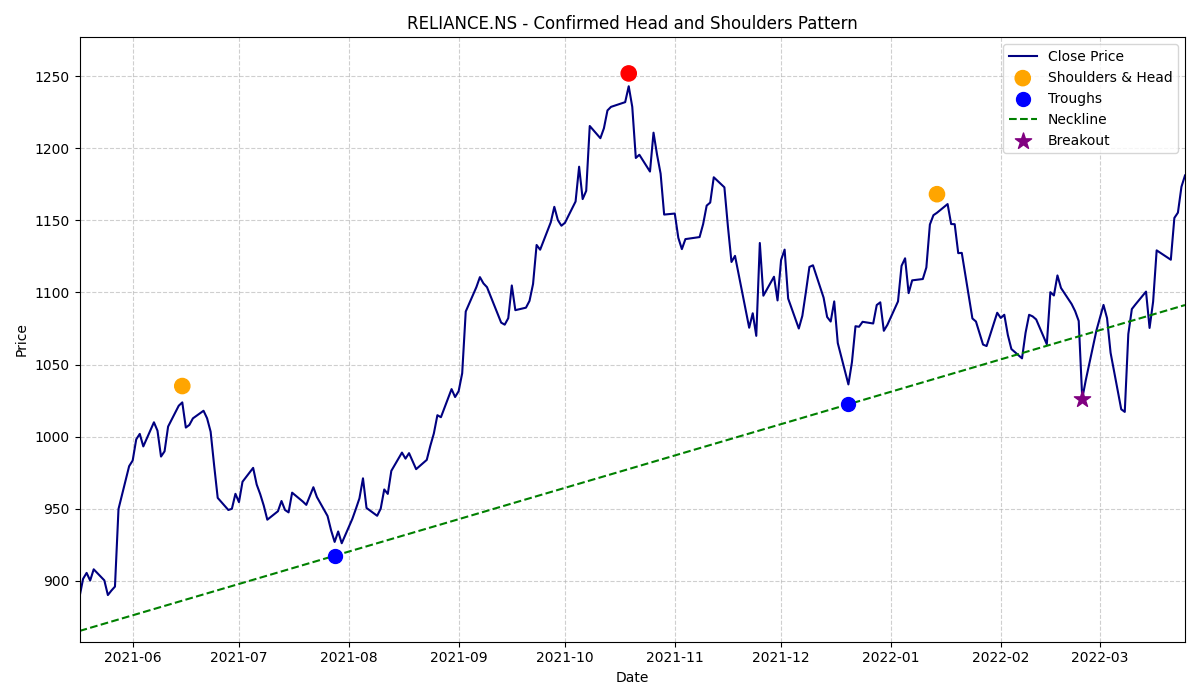
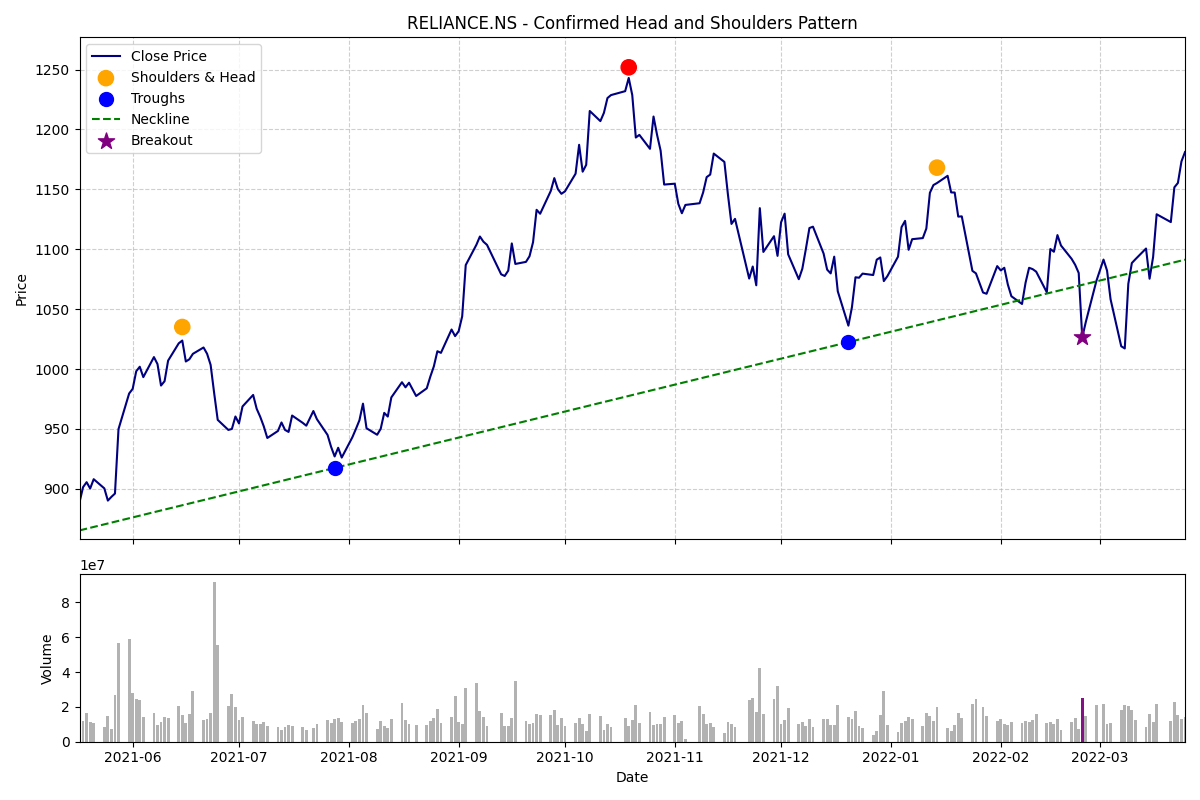
Refactor head and shoulders detection script: enhance plotting with volume visualization, update data loading for multiple symbols, and add .gitignore for generated files

diff --git a/detect_head_and_shoulders.py b/detect_head_and_shoulders.py
@@ -2,8 +2,12 @@ import os
 import pandas as pd
 import numpy as np
 import yfinance as yf
+import matplotlib
+# Use a non-interactive backend to avoid Tkinter issues when running headless
+matplotlib.use('Agg')
 import matplotlib.pyplot as plt
 from datetime import datetime, timedelta
+import time
 
 def load_data(symbol, start_date, end_date):
     data = yf.download(symbol, start=start_date, end=end_date)
@@ -193,47 +197,71 @@ def plot_pattern_zoom(df, pattern, stock_name, output_path):
     df_zoom = df[(df['Date'] >= start_date) & (df['Date'] <= end_date)].copy()
     if df_zoom.empty: return
 
-    plt.figure(figsize=(12, 7))
-    plt.plot(df_zoom['Date'], df_zoom['Close'], label='Close Price', color='navy')
+    # Create two stacked axes: price (top) and volume (bottom) sharing the x-axis
+    fig, (ax_price, ax_vol) = plt.subplots(2, 1, sharex=True, figsize=(12, 8),
+                                          gridspec_kw={'height_ratios': [3, 1]})
+
+    # Price line
+    ax_price.plot(df_zoom['Date'], df_zoom['Close'], label='Close Price', color='navy')
 
     # Mark pattern points
     points_dates = [p1_date, p2_date, p3_date]
     points_prices = [p1_high, p2_high, p3_high]
-    plt.scatter(points_dates, points_prices, color=['orange', 'red', 'orange'], s=120, zorder=5, label='Shoulders & Head')
+    ax_price.scatter(points_dates, points_prices, color=['orange', 'red', 'orange'], s=120, zorder=5, label='Shoulders & Head')
     
     troughs_dates = [t1_date, t2_date]
     troughs_prices = [t1_low, t2_low]
-    plt.scatter(troughs_dates, troughs_prices, color='blue', s=100, zorder=5, label='Troughs')
+    ax_price.scatter(troughs_dates, troughs_prices, color='blue', s=100, zorder=5, label='Troughs')
 
     # Draw Neckline
     slope = pattern['neckline_slope']
     intercept = pattern['neckline_intercept']
     neckline_x = [df_zoom['Date'].iloc[0], df_zoom['Date'].iloc[-1]]
     neckline_y = [slope * d.toordinal() + intercept for d in neckline_x]
-    plt.plot(neckline_x, neckline_y, 'g--', label='Neckline')
+    ax_price.plot(neckline_x, neckline_y, 'g--', label='Neckline')
 
-    # Mark Breakout
+    # Mark Breakout on price
     breakout_date = df['Date'][breakout_idx]
     breakout_price = df['Close'][breakout_idx]
-    plt.scatter(breakout_date, breakout_price, color='purple', s=150, zorder=6, marker='*', label='Breakout')
+    ax_price.scatter(breakout_date, breakout_price, color='purple', s=150, zorder=6, marker='*', label='Breakout')
 
-    plt.xlim(df_zoom['Date'].iloc[0], df_zoom['Date'].iloc[-1])
-    plt.ylim(df_zoom['Low'].min() * 0.98, df_zoom['High'].max() * 1.02)
-    plt.title(f"{stock_name} - Confirmed Head and Shoulders Pattern")
-    plt.xlabel('Date')
-    plt.ylabel('Price')
-    plt.legend()
-    plt.grid(True, linestyle='--', alpha=0.6)
+    # Volume bars on bottom axis
+    if 'Volume' in df_zoom.columns:
+        ax_vol.bar(df_zoom['Date'], df_zoom['Volume'], color='gray', alpha=0.6)
+        # Highlight breakout volume bar
+        try:
+            ax_vol.bar(breakout_date, df.loc[breakout_idx, 'Volume'], color='purple', alpha=0.9)
+        except Exception:
+            pass
+
+    # Formatting
+    ax_price.set_xlim(df_zoom['Date'].iloc[0], df_zoom['Date'].iloc[-1])
+    ax_price.set_ylim(df_zoom['Low'].min() * 0.98, df_zoom['High'].max() * 1.02)
+    ax_price.set_title(f"{stock_name} - Confirmed Head and Shoulders Pattern")
+    ax_price.set_ylabel('Price')
+    ax_vol.set_ylabel('Volume')
+    ax_vol.set_xlabel('Date')
+
+    ax_price.legend(loc='upper left')
+    ax_price.grid(True, linestyle='--', alpha=0.6)
+    ax_vol.grid(False)
     plt.tight_layout()
     plt.savefig(output_path)
-    plt.close()
+    plt.close(fig)
 
 if __name__ == "__main__":
-    symbol = 'RELIANCE.NS'
+    # List of ~25 popular NSE tickers to analyze (add or remove as needed)
+    symbols = [
+        'RELIANCE.NS', 'TCS.NS', 'INFY.NS', 'HDFCBANK.NS', 'ICICIBANK.NS',
+        'LT.NS', 'AXISBANK.NS', 'KOTAKBANK.NS', 'SBIN.NS', 'HINDUNILVR.NS',
+        'ITC.NS', 'MARUTI.NS', 'BHARTIARTL.NS', 'ASIANPAINT.NS', 'BAJFINANCE.NS',
+        'HCLTECH.NS', 'WIPRO.NS', 'ONGC.NS', 'BPCL.NS', 'TATAMOTORS.NS',
+        'TATASTEEL.NS', 'JSWSTEEL.NS', 'SUNPHARMA.NS', 'LTIM.NS', 'NESTLEIND.NS'
+    ]
+
     start_date = '2015-01-01'
-    end_date = '2025-08-20'
-    df = load_data(symbol, start_date, end_date)
-    df = find_swing_points(df, N_bars=20)
+    end_date = datetime.now().strftime('%Y-%m-%d')
+
     # Run detection for multiple time windows and save results separately
     windows = {
         '1y': 365,
@@ -242,26 +270,51 @@ if __name__ == "__main__":
         '5y': 365*5,
     }
 
-    out_base = os.path.join(os.getcwd(), 'PatternCharts', symbol)
-    os.makedirs(out_base, exist_ok=True)
-
-    for name, days in windows.items():
-        df_slice = df[df['Date'] >= df['Date'].max() - pd.Timedelta(days=days)].copy()
-        if df_slice.empty:
-            print(f"No data for window {name}")
+    for symbol in symbols:
+        print(f"\nProcessing {symbol}...")
+        try:
+            df = load_data(symbol, start_date, end_date)
+        except Exception as e:
+            print(f"Failed to download {symbol}: {e}")
+            # short sleep to avoid hammering the API on repeated failures
+            time.sleep(1)
             continue
 
-        # Reset index and recompute swing points on the slice so indices are positional (0..n-1)
-        df_slice = df_slice.reset_index(drop=True)
-        df_slice = find_swing_points(df_slice, N_bars=20)
+        if df is None or df.empty:
+            print(f"No data for {symbol}, skipping.")
+            time.sleep(0.5)
+            continue
 
-        patterns = detect_head_and_shoulders(df_slice)
-        folder = os.path.join(out_base, name)
-        os.makedirs(folder, exist_ok=True)
-        if patterns:
-            print(f"{name}: {len(patterns)} confirmed pattern(s) detected")
-            for idx, pattern in enumerate(patterns, 1):
-                out_path = os.path.join(folder, f'{symbol}_pattern_zoom_{name}_{idx}.png')
-                plot_pattern_zoom(df_slice, pattern, symbol, out_path)
-        else:
-            print(f"{name}: No confirmed head and shoulders pattern detected.")
+        # Compute swing points once for full history (used to slice windows)
+        df = df.reset_index(drop=True)
+        df = find_swing_points(df, N_bars=20)
+
+        out_base = os.path.join(os.getcwd(), 'PatternCharts', symbol)
+        os.makedirs(out_base, exist_ok=True)
+
+        for name, days in windows.items():
+            df_slice = df[df['Date'] >= df['Date'].max() - pd.Timedelta(days=days)].copy()
+            if df_slice.empty:
+                print(f"{symbol} - {name}: No data for window {name}")
+                continue
+
+            # Reset index and recompute swing points on the slice so indices are positional (0..n-1)
+            df_slice = df_slice.reset_index(drop=True)
+            df_slice = find_swing_points(df_slice, N_bars=20)
+
+            patterns = detect_head_and_shoulders(df_slice)
+            folder = os.path.join(out_base, name)
+            os.makedirs(folder, exist_ok=True)
+            if patterns:
+                print(f"{symbol} - {name}: {len(patterns)} confirmed pattern(s) detected")
+                for idx, pattern in enumerate(patterns, 1):
+                    out_path = os.path.join(folder, f'{symbol}_pattern_zoom_{name}_{idx}.png')
+                    try:
+                        plot_pattern_zoom(df_slice, pattern, symbol, out_path)
+                    except Exception as e:
+                        print(f"Failed to plot pattern for {symbol} {name} #{idx}: {e}")
+            else:
+                print(f"{symbol} - {name}: No confirmed head and shoulders pattern detected.")
+
+        # Be polite to the API
+        time.sleep(1)
